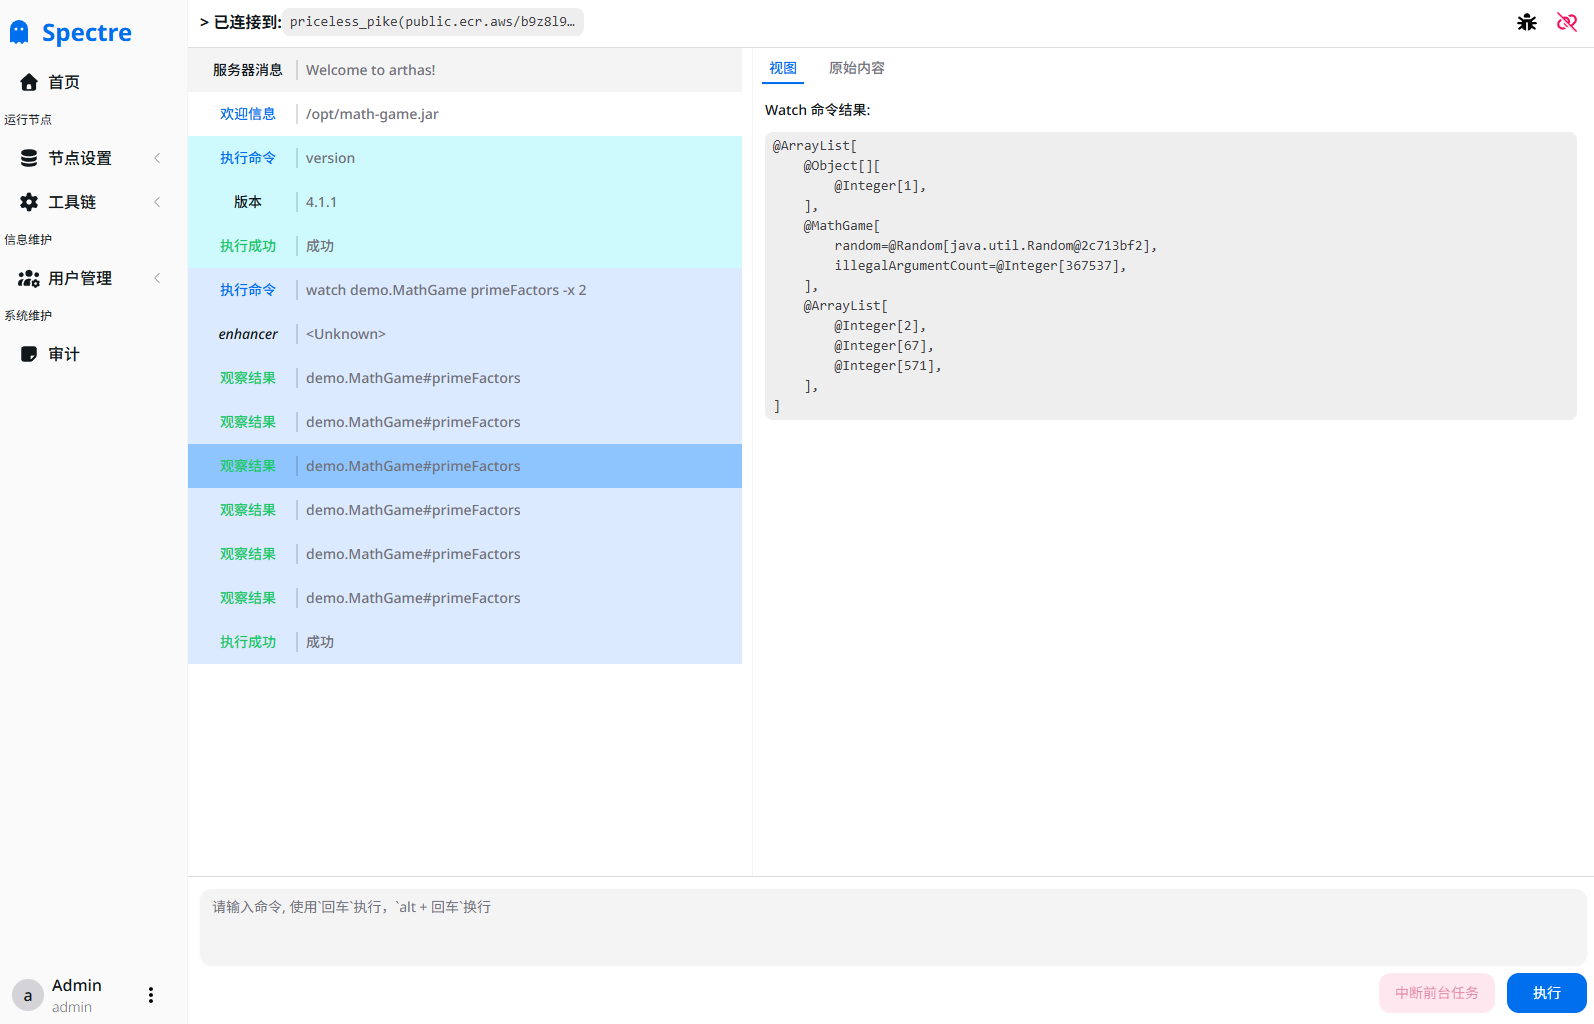
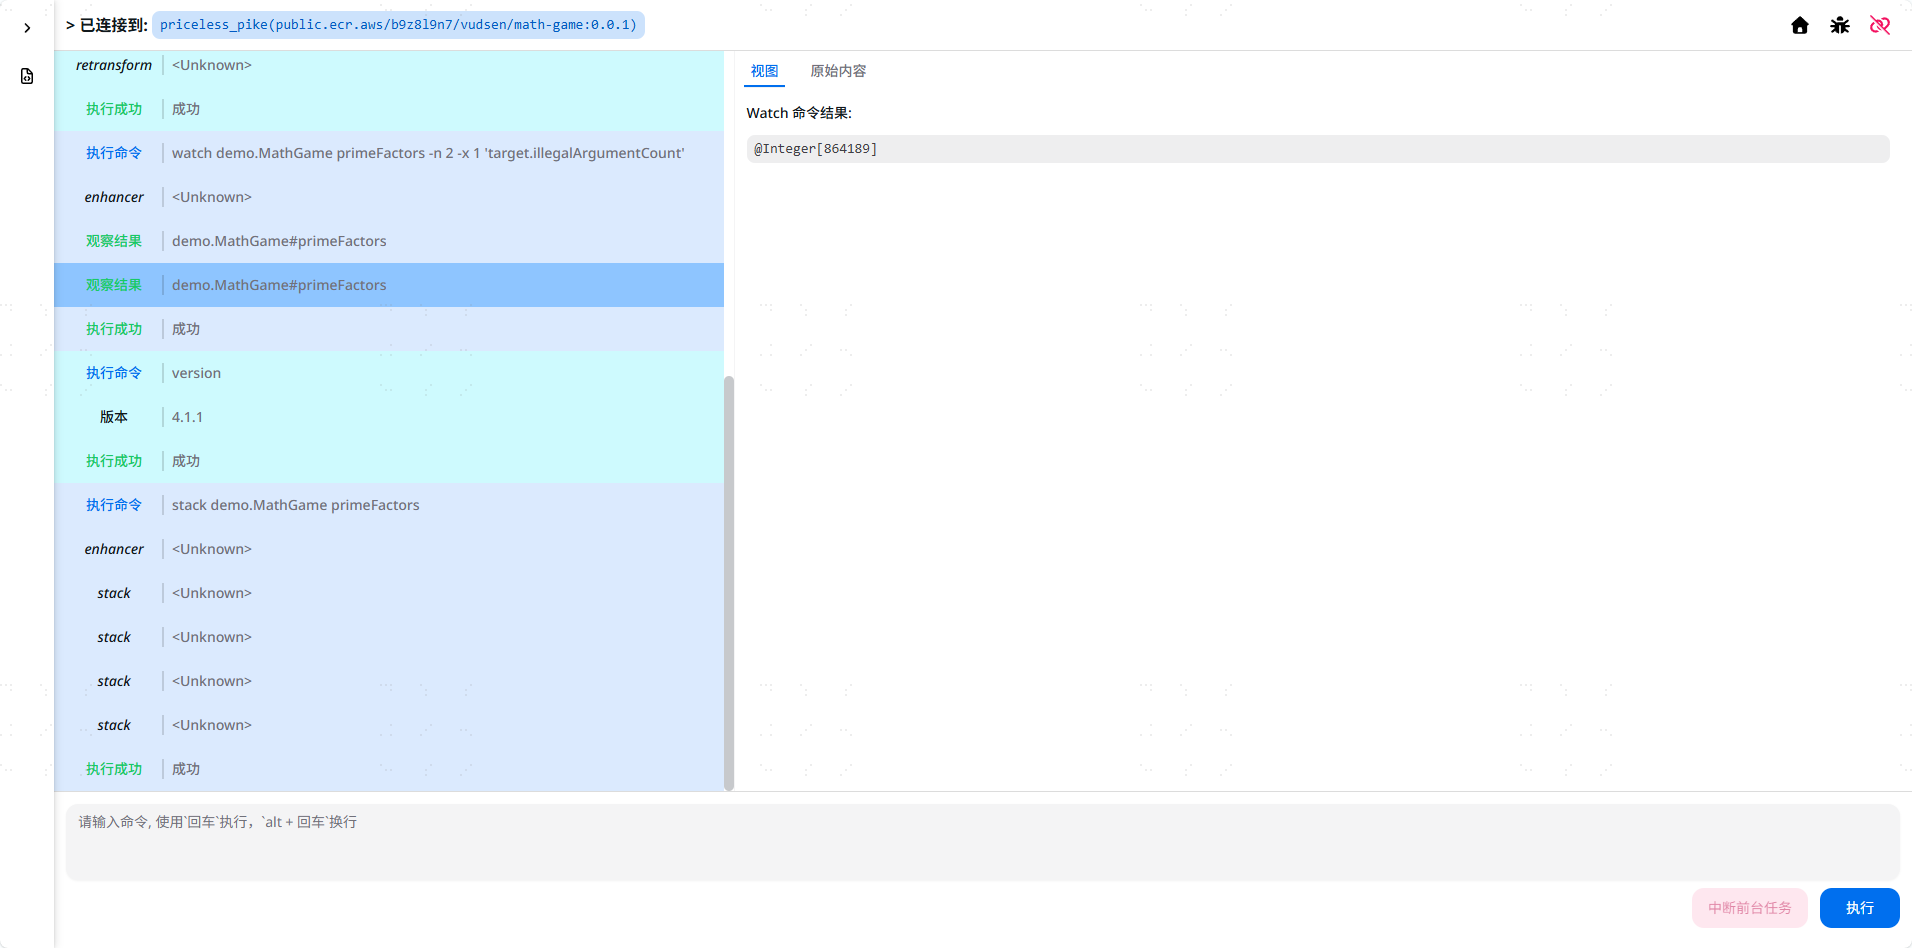
release: v0.2.0

diff --git a/README.md b/README.md
@@ -14,9 +14,16 @@
 
 👮: 拥有完整的权限管理，允许限制用户可以执行的命令，使用更加放心
 
-💻:  完美结合 Web 界面的优势，提供更加完善的界面展示以及操作体验
+💻:  完美结合 Web 界面的优势，提供各种原版命令的增强以及更精美的界面
 
 ♨: 支持运行在 Jre 环境的 JVM
+
+## 增强功能
+
+增强功能可以在连接到 JVM 后在左侧菜单选中(顶部预览图左侧菜单)。这些功能用于简化一些基础的操作：
+
+- Retransform：允许直接在 web 界面上传 class 文件替换字节码
+
 
 ## 本地部署
 
